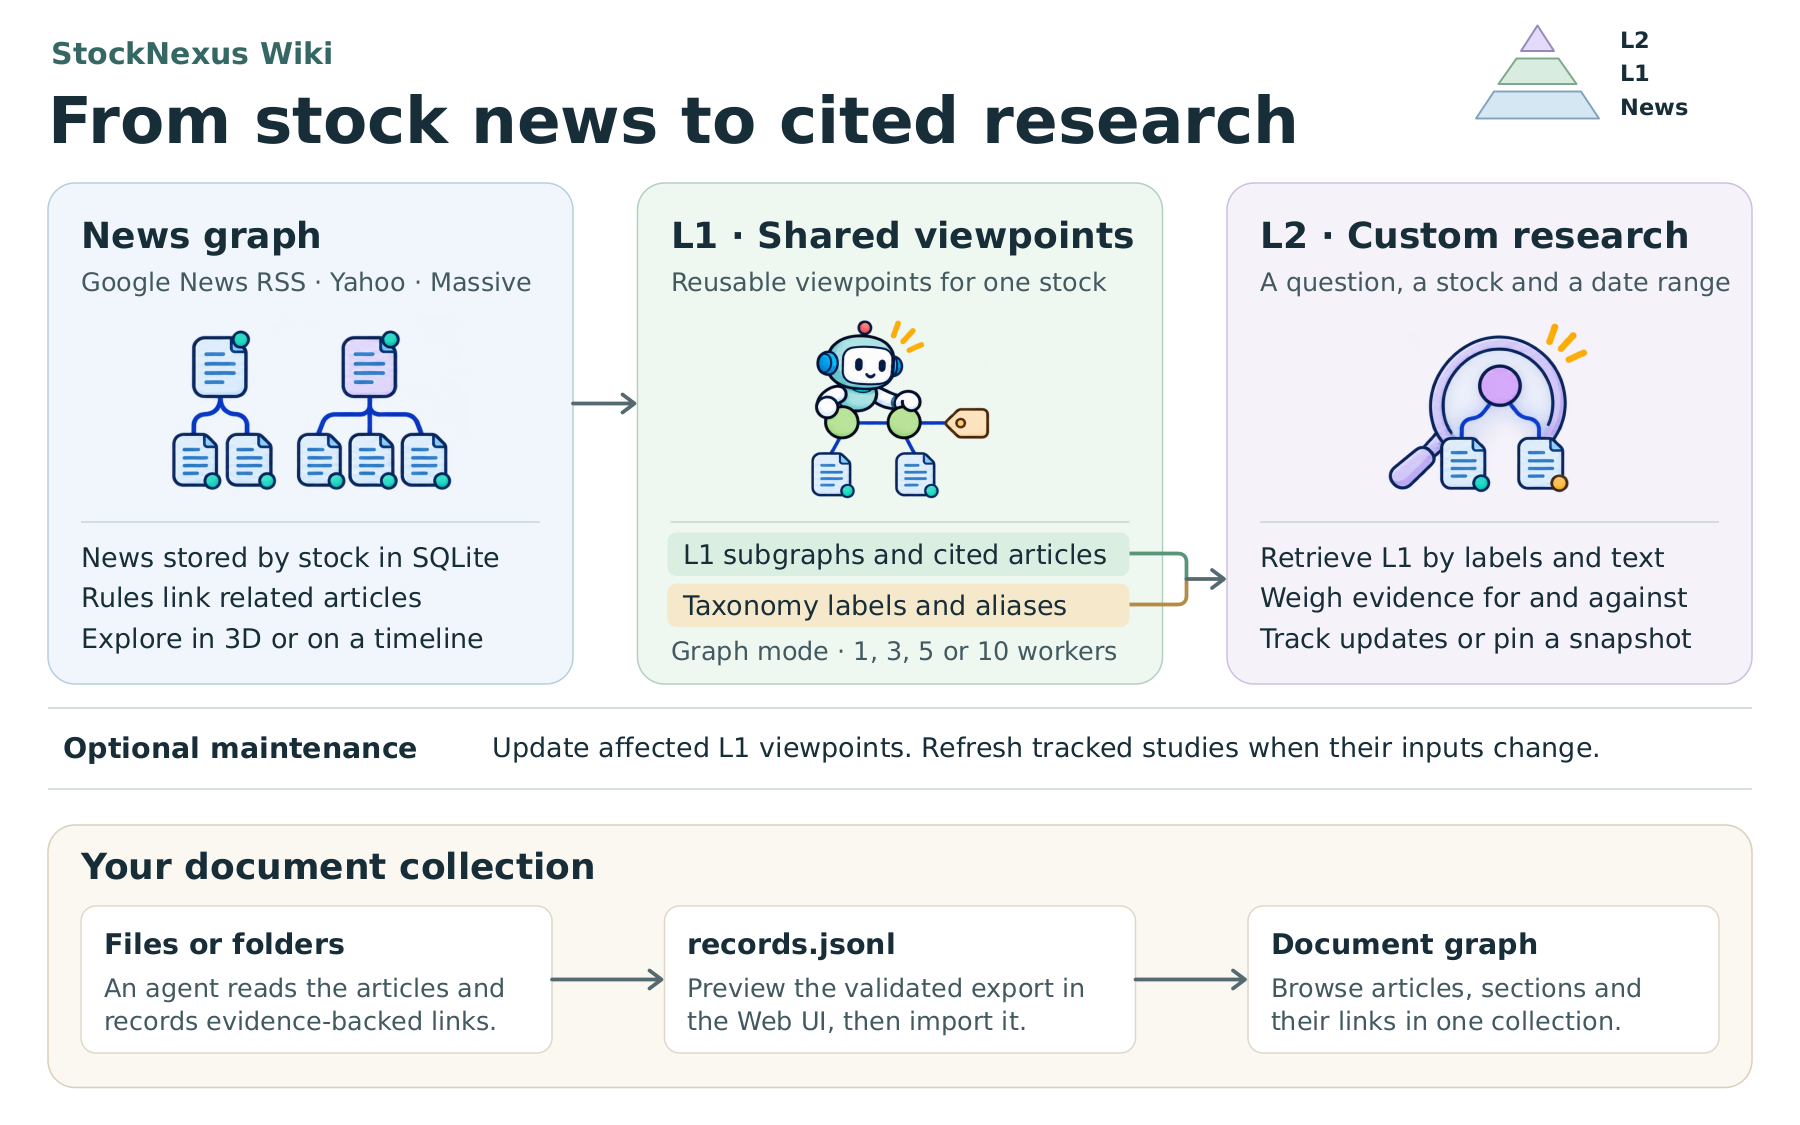
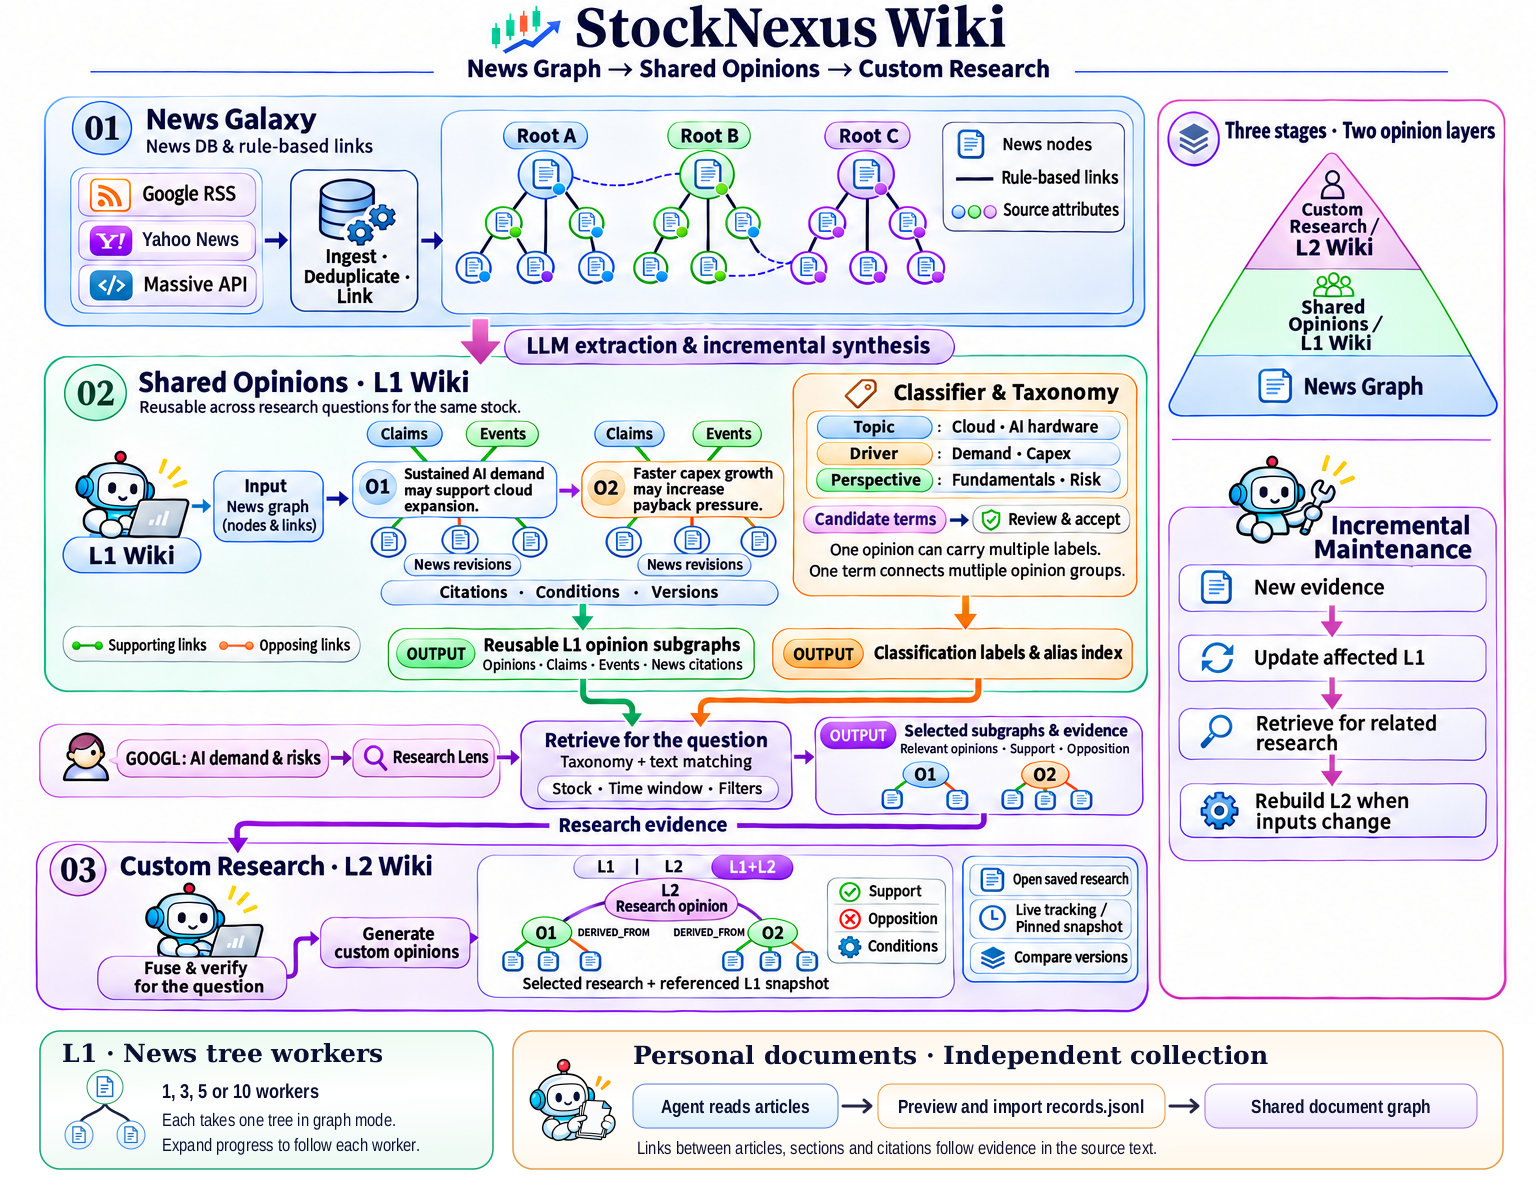
Preserve the original illustrated research diagrams and extend their workflows

diff --git a/docs/media/README.md b/docs/media/README.md
@@ -4,16 +4,16 @@ The [English README](../../README.md) uses [the English figure](stocknexus-archi
 
 ## Update the figures
 
-Edit the labels and connectors in [architecture.svg](architecture.svg). Both languages share one layout and one [unlettered illustration](architecture-art.png). The blue, green and purple panels follow stock news through L1 and L2. The document import below them has its own collection database. [Research contract](../../spec/RESEARCH_LAYERS.md) · [Tree workers](../../spec/WIKI_RUNTIME.md) · [Document import](../../spec/DOCUMENT_IMPORT.md)
+The [English original](architecture-sources/original-en.png) and [Traditional Chinese original](architecture-sources/original-zh-TW.png) from commit `5c7e45e` are the visual masters. Keep them at their native 1536 × 1024 scale. Edit the [bilingual overlay](architecture.svg) for corrections or additions. It updates the Yahoo source badge and appends two illustrated insets for tree workers and personal document collections. The [document robot](architecture-sources/document-robot.png) matches the original L1 mascot.
 
-With librsvg, DejaVu Sans and Noto Sans CJK TC installed, run these commands from the repository root.
+With librsvg, Liberation Sans Narrow, DejaVu Serif and Noto CJK fonts installed, run these commands from the repository root.
 
 ```bash
-rsvg-convert --accept-language en --width 1800 --output docs/media/stocknexus-architecture-en.png docs/media/architecture.svg
-rsvg-convert --accept-language zh-TW --width 1800 --output docs/media/stocknexus-architecture-zh-TW.png docs/media/architecture.svg
+rsvg-convert --accept-language en -o docs/media/stocknexus-architecture-en.png docs/media/architecture.svg
+rsvg-convert --accept-language zh-TW -o docs/media/stocknexus-architecture-zh-TW.png docs/media/architecture.svg
 ```
 
-Inspect both exports at README width after editing. The [illustration notes](architecture-prompts.md) record the artwork's provenance.
+Inspect both 1536 × 1186 exports. In each upper panel, a pixel comparison with its visual master should show differences only inside the edited Yahoo badge. Check the localized footer for clipping at full size and at README width. [Illustration notes](architecture-prompts.md) · [Tree workers](../../spec/WIKI_RUNTIME.md) · [Document import](../../spec/DOCUMENT_IMPORT.md)
 
 ## 歷史影片資產
 

diff --git a/spec/ai-dev-experience-preferences.md b/spec/ai-dev-experience-preferences.md
@@ -161,6 +161,8 @@ Wiki 修改先核對現有資料與相容格式，必要時在備份後救援／
 
 ## 2026-11-08 明確偏好：公開介紹與流程圖
 
+更新架構圖時以原始中英文手繪研究圖為底稿，保留角色、襯線標題、巢狀淡色面板，以及分支與回饋箭頭。新流程可在原圖下方延伸。[雙語底稿與重製方法](../docs/media/README.md#update-the-figures)
+
 預設英文入口為 `README.md`，繁體中文版為 `README.zh-TW.md`。兩份在右上角互連，繁體中文在右，各自嵌入對應語言圖。介紹以問題及使用步驟條列：降低新聞噪音、AI 比對支持／反對論點、共享 L1 維護、使用者新增 L2 研究、News／Wiki Agent 對話。移除影片入口與過度風險宣告，技術細節仍在 spec。刪除圖上的旁註時不能留下無來源箭頭；以明確的輸入、輸出與處理名稱補齊流程。
 
 等待回饋要跨區一致：側欄顯示分析中時，中央圖譜也應呈現同一 L2 工作進度；不能只靠轉圈動畫，也不能顯示引導重複建立的空狀態。已有成果載入失敗時重讀，不重做模型推論。

diff --git a/docs/media/architecture-prompts.md b/docs/media/architecture-prompts.md
@@ -2,7 +2,7 @@
 
 ## Published November 20, 2026
 
-ImageGen adapted the previous English figure into a transparent strip illustrating news trees, the L1 robot arranging viewpoints and citations, and a magnifier inspecting an L2 viewpoint. The bilingual SVG adds the labels, arrows, L1 output boxes and the separate JSONL collection path. Edit the SVG and render both languages for factual or wording changes. [Source and export commands](README.md#update-the-figures)
+Use the original localized research diagrams as the art direction and base artwork for every update. Preserve the illustrated research-methodology style, inked robot outlines, bold serif headings, hand-lettered module labels, nested pastel containers, branching connectors and thick feedback arrows. Extend the diagram around its existing composition. The current edition uses ImageGen for the document-handling robot in the import inset. The other robots, pyramid and research modules come directly from the originals. [Source and export commands](README.md#update-the-figures)
 
 ## November 7–8 artwork history
 

diff --git a/spec/CHANGELOG.md b/spec/CHANGELOG.md
@@ -1,5 +1,9 @@
 # 變更與驗證 log
 
+## 2026-11-20 — Restore the illustrated research figures
+
+Both figures use the original bilingual research artwork from `5c7e45e`. The Yahoo source label has been corrected, and the footer adds L1 tree workers and the independent JSONL import. Keep the illustrated modules, role-specific robots, pastel panels, typography and arrows when updating the architecture. [Masters, export commands and visual checks](../docs/media/README.md#update-the-figures)
+
 ## 2026-11-20 — English repository landing page and architecture figures
 
 The [English guide](../README.md) and [Traditional Chinese guide](../README.zh-TW.md) link to one another at the top right. Both figures now show tree workers in stock L1 and the independent JSONL document collection. The original PNG URLs and the previous English README link still resolve. [Bilingual figure source and export commands](../docs/media/README.md)
